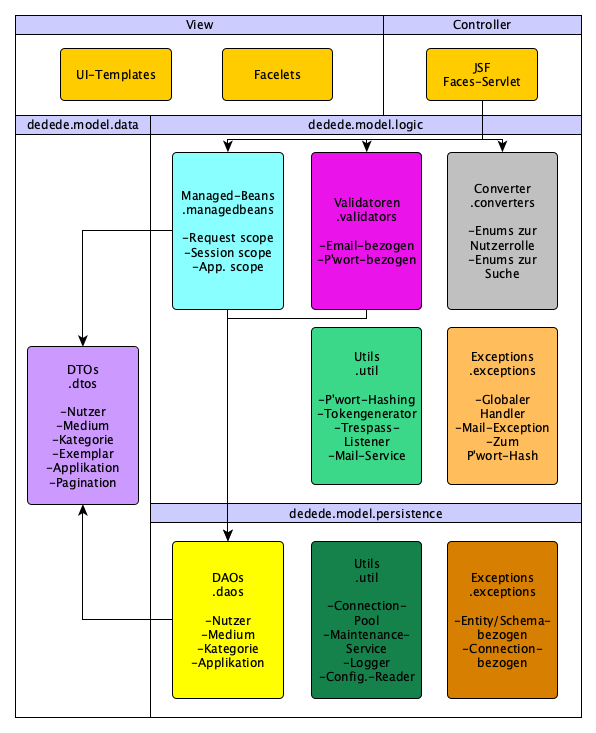
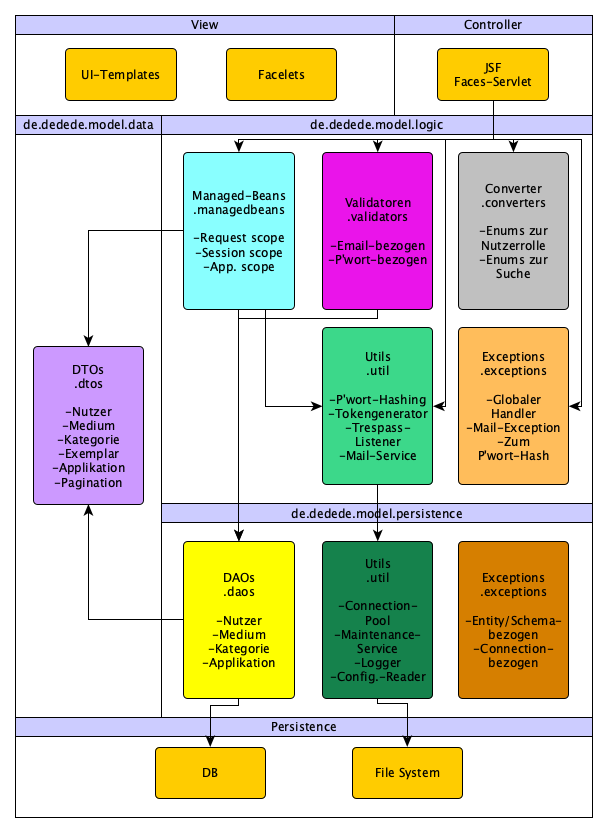
Finalized chapter and comments

diff --git a/BiBi/src/main/java/de/dedede/model/persistence/util/ConnectionPool.java b/BiBi/src/main/java/de/dedede/model/persistence/util/ConnectionPool.java
@@ -4,56 +4,75 @@ import java.sql.Connection;
 import java.util.Queue;
 import java.util.concurrent.atomic.AtomicInteger;
 
+import de.dedede.model.persistence.exceptions.LostConnectionException;
+import de.dedede.model.persistence.exceptions.MaxConnectionsException;
+
+/**
+ * This pool manages the creation and distribution of connection-objects.
+ * These are then used to perform SQL-queries on the application's data store.
+ * Once the connection-operations have been committed, the connection must be 
+ * returned to the pool to be reused. The maximum number of connections is specified 
+ * by the application's global configurations.
+ *
+ */
 public class ConnectionPool {
 
-	private static volatile ConnectionPool INSTANCE = null;
-
+	private static ConnectionPool INSTANCE = null;
 	private Queue<Connection> connections = null;
-
 	private final AtomicInteger maxConnections = new AtomicInteger();
 
-	private ConnectionPool() {
-		if (INSTANCE != null) {
-			throw new IllegalStateException();
-		}
-	}
+	private ConnectionPool() {}
 
-	// https://fullstackdeveloper.guru/2020/04/06/how-to-implement-singleton-pattern-in-java/
+	/**
+	 * Returns the single instance of the ConnectionPool.
+	 * 
+	 * @return The singleton ConnectionPool instance
+	 */
 	public static ConnectionPool getInstance() {
 		if (INSTANCE == null) {
-			synchronized (ConnectionPool.class) {
-				if (INSTANCE == null) {
-					INSTANCE = new ConnectionPool();
-				}
-			}
+			INSTANCE = new ConnectionPool();
 		}
-
 		return INSTANCE;
 	}
 
-	public Connection fetchConnection() {
-
-		return null;
-
-	}
-
-	public void releseConnection() {
-
-	}
-
-	public Connection createConnection() {
-
+	/**
+	 * Issues a connection to the caller. If a no connection is available
+	 * due to the limitation on their total quantity, an exception is thrown.
+	 * 
+	 * @return A connection for executing queries on the app's data store.
+	 * @throws MaxConnectionsException Is thrown if no connection is available.
+	 */
+	public Connection fetchConnection() throws MaxConnectionsException {
 		return null;
 	}
 
-	public void closeConnection() {
+	/**
+	 * Returns a connection to the pool for use by other callers.
+	 * Any uncommitted operation is not guaranteed to be executed.
+	 * 
+	 * @param conn The connection to be returned.
+	 */
+	public void releseConnection(Connection conn) {
 
 	}
 
-	public void setupConnectionPool() {
+	/**
+	 * Initializes the connection pool and its connection objects.
+	 * If this fails, an exception is thrown. The pool must be
+	 * initialized in order to be used.
+	 * 
+	 * @throws LostConnectionException
+	 */
+	public void setUpConnectionPool() throws LostConnectionException {
 
 	}
 
+	/**
+	 * Closes the connection pool as well as any active connection objects. 
+	 * It is not guaranteed that uncommitted operations on active connections
+	 * will be executed.
+	 * 
+	 */
 	public void destroyConnectionPool() {
 
 	}

diff --git a/BiBi/src/main/java/de/dedede/model/persistence/util/Logger.java b/BiBi/src/main/java/de/dedede/model/persistence/util/Logger.java
@@ -1,24 +1,52 @@
 package de.dedede.model.persistence.util;
 
+/**
+ * Defines a thread-safe logging utility, which is implemented with static 
+ * methods for different logging levels. In particular, these are: 
+ * Development, detailed, and severe. The logs are written to a file, whose
+ * location is specified in the global application configurations.
+ *
+ */
 public final class Logger {
 
-	private Logger() {
-		throw new IllegalStateException();
-	}
+	private Logger() {}
 
+	/**
+	 * Writes a severe message to the log. Severe messages are reserved
+	 * for events, from which the system cannot recover without interrupting
+	 * the application.
+	 * 
+	 * @param message The message which accompanies the log entry.
+	 */
 	public static void severe(String message) {
 		log(LogLevel.SEVERE, message);
 	}
 
+	/**
+	 * Writes a detailed message to the log. Detailed messages are reserved
+	 * for normal events.
+	 * 
+	 * @param message The message which accompanies the log entry.
+	 */
 	public static void detailed(String message) {
 		log(LogLevel.DETAILED, message);
 	}
 
+	/**
+	 * Writes a development message to the log. Development messages are reserved
+	 * for events, which could later be used to diagnose an error.
+	 * 
+	 * @param message The message which accompanies the log entry.
+	 */
 	public static void development(String message) {
 		log(LogLevel.DEVELOPMENT, message);
 	}
 
 	private static void log(LogLevel level, String message) {
+	}
+	
+	public enum LogLevel {
+		SEVERE, DETAILED, DEVELOPMENT
 	}
 
 }

diff --git a/BiBi/src/main/java/de/dedede/model/persistence/util/MaintenanceProcess.java b/BiBi/src/main/java/de/dedede/model/persistence/util/MaintenanceProcess.java
@@ -1,5 +1,52 @@
 package de.dedede.model.persistence.util;
 
-public class MaintenanceProcess extends Thread {
-
+/**
+ * Implements a runnable maintenance process as a singleton.
+ * When run by a thread, the maintenance process will check
+ * for inconsistent data entries in the application's data
+ * store with a given frequency.
+ *
+ */
+public final class MaintenanceProcess implements Runnable {
+	
+	private static int timeoutInterval;
+	
+	private static MaintenanceProcess instance;
+	
+	/**
+	 * Sets the frequency, with which a maintenance process 
+	 * instance queries the data store. Takes immediate effect.
+	 * 
+	 * @param interval The new time interval between checks.
+	 */
+	public static void setTimeoutInterval(int interval) {
+		
+	}
+	
+	private MaintenanceProcess() {}
+	
+	/**
+	 * Returns the single instance of the MaintenanceProcess.
+	 * 
+	 * @return The singleton MaintenanceProcess instance
+	 */
+	public MaintenanceProcess getInstance() {
+		if (instance == null) {
+			instance = new MaintenanceProcess();
+		}
+		return instance;
+	}
+	
+	/**
+	 * Executes the maintenance process between set intervals.
+	 * This method will cause the calling thread to sleep and 
+	 * is therefore intended to be executed by a stand-alone 
+	 * worker thread.
+	 * 
+	 */
+	@Override
+	public void run() {
+		
+	}
+	
 }

diff --git a/BiBi/src/main/java/de/dedede/model/persistence/util/DataLayerInitializer.java b/BiBi/src/main/java/de/dedede/model/persistence/util/DataLayerInitializer.java
@@ -1,19 +1,41 @@
 package de.dedede.model.persistence.util;
 
+import de.dedede.model.persistence.exceptions.InvalidSchemaException;
+import de.dedede.model.persistence.exceptions.LostConnectionException;
+
+/**
+ * Initializes the application's utilities and environment.
+ * This is required when the application is launched. 
+ *
+ */
 public class DataLayerInitializer {
 
-	private ConnectionPool connectionPool;
-
-	public void setupDatabase() {
+	private static void setUpConnectionPool() throws LostConnectionException {
+		
+	}
+	
+	private static void setUpDatabase() throws InvalidSchemaException {
 
 	}
-
-	public void createApplicationSettings() {
-
+	
+	private static void setUpMaintenanceProcess() throws LostConnectionException {
+		
 	}
 
-	public void execute() {
-
+	/**
+	 * Performs tasks associated with the initialization of the data layer. 
+	 * This includes setting up the data store, the connection pool, and
+	 * the maintenance process.
+	 * 
+	 * @throws LostConnectionException Is thrown if a connection could
+	 * 		not be established to the data store to perform the initialization.
+	 * @see ConnectionPool
+	 * @see MaintenanceProcess
+	 */
+	public static void execute() throws LostConnectionException {
+		setUpDatabase();
+		setUpConnectionPool();
+		setUpMaintenanceProcess();
 	}
 
 }

diff --git a/BiBi/src/main/java/de/dedede/model/persistence/util/ConfigReader.java b/BiBi/src/main/java/de/dedede/model/persistence/util/ConfigReader.java
@@ -2,17 +2,33 @@ package de.dedede.model.persistence.util;
 
 import java.util.Properties;
 
+/**
+ * A singleton utility class for returning system-wide property values.
+ * 
+ * See the {@link Properties} class for the implementation of properties in Java.
+ *
+ */
 public class ConfigReader {
 
-	private final static Logger logger = null;
-	private final static Properties configFile = null;
-	private final static MaintenanceProcess MAINTENANCE_PROCESS = null;
+	private ConfigReader() {}
 
-	private ConfigReader() {
-	}
-
+	/**
+	 * Returns the single instance of the ConfigReader.
+	 * 
+	 * @return The singleton ConfigReader instance
+	 */
 	public static ConfigReader getInstance() {
 		return null;
 	}
-
+	
+	/**
+	 * Returns a properties-object containing the system configurations.
+	 * This properties-object only permits read-only operations.
+	 * 
+	 * @return The system configurations
+	 */
+	public Properties getSystemConfigurations() {
+		return null;
+	}
+	
 }
